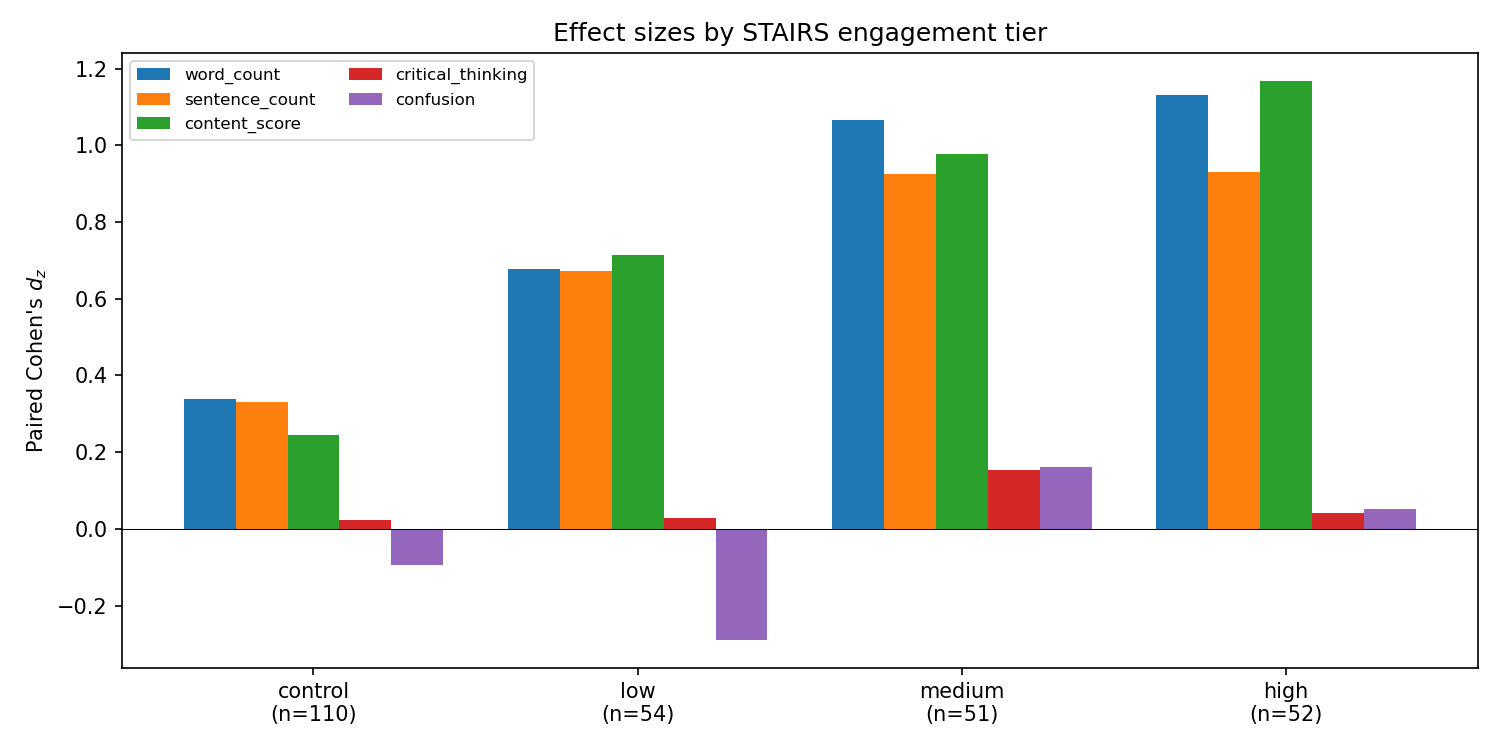
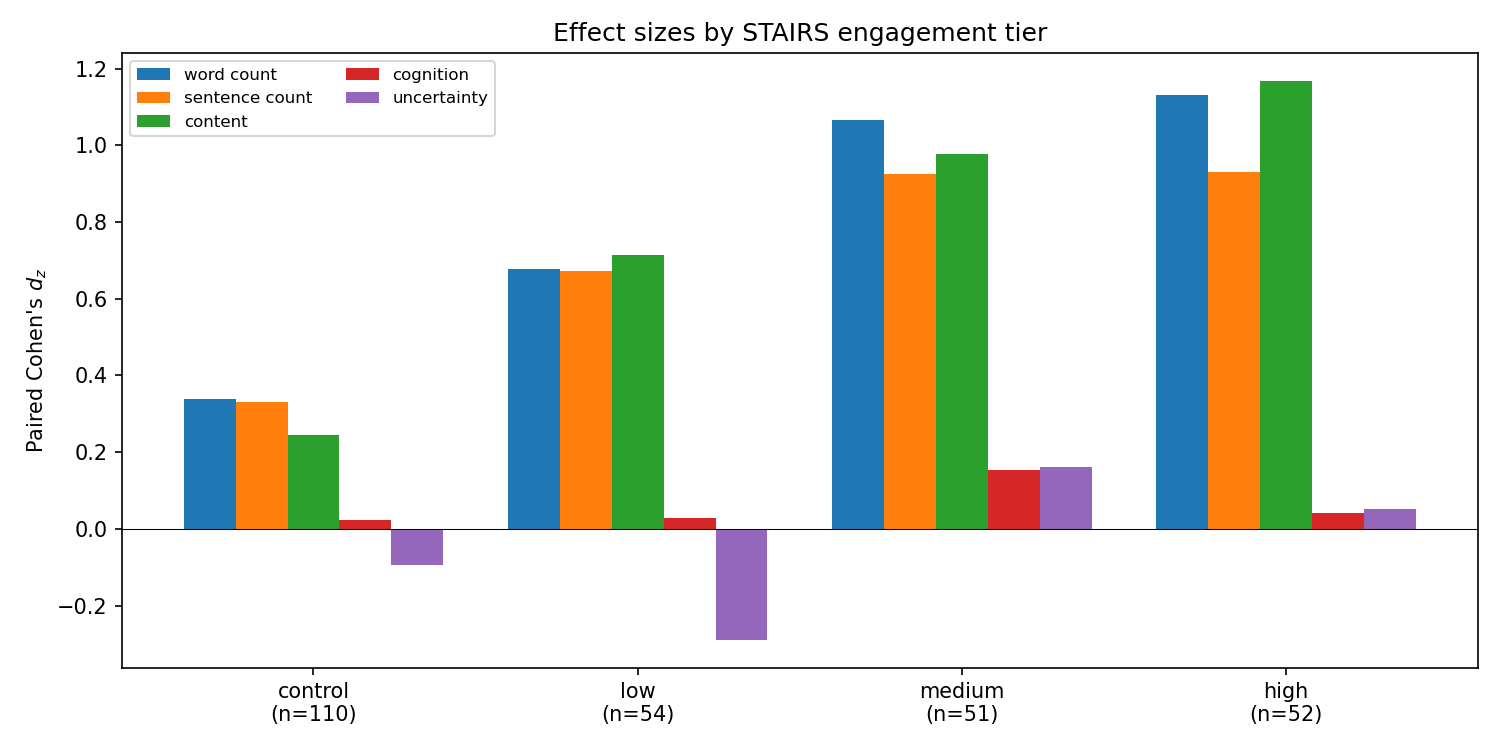
update labels

Changed region(s): [[0.2453, 0.092, 0.368, 0.184], [0.092, 0.092, 0.2147, 0.184]]

diff --git a/src/05_engagement.py b/src/05_engagement.py
@@ -196,6 +196,13 @@ def main() -> None:
     import matplotlib.pyplot as plt
     plot_feats = ["word_count", "sentence_count", "content_score",
                   "critical_thinking", "confusion"]
+    feat_labels = {
+        "word_count": "word count",
+        "sentence_count": "sentence count",
+        "content_score": "content",
+        "critical_thinking": "cognition",
+        "confusion": "uncertainty",
+    }
     groups = ["control_full", "stairs_low", "stairs_medium", "stairs_high"]
     labels = ["control\n(n=110)",
               f"low\n(n={(stairs.engagement_tier=='low').sum()})",
@@ -204,11 +211,10 @@ def main() -> None:
     fig, ax = plt.subplots(figsize=(10, 5))
     x = np.arange(len(groups))
     width = 0.16
-    colors = ["#888", "#bdd", "#9cc", "#5aa", "#266"]
     for i, feat in enumerate(plot_feats):
         vals = [pivot.loc[feat, g] if g in pivot.columns else np.nan for g in groups]
         offset = (i - (len(plot_feats) - 1) / 2) * width
-        ax.bar(x + offset, vals, width, label=feat)
+        ax.bar(x + offset, vals, width, label=feat_labels[feat])
     ax.set_xticks(x)
     ax.set_xticklabels(labels)
     ax.axhline(0, color="black", lw=0.5)
